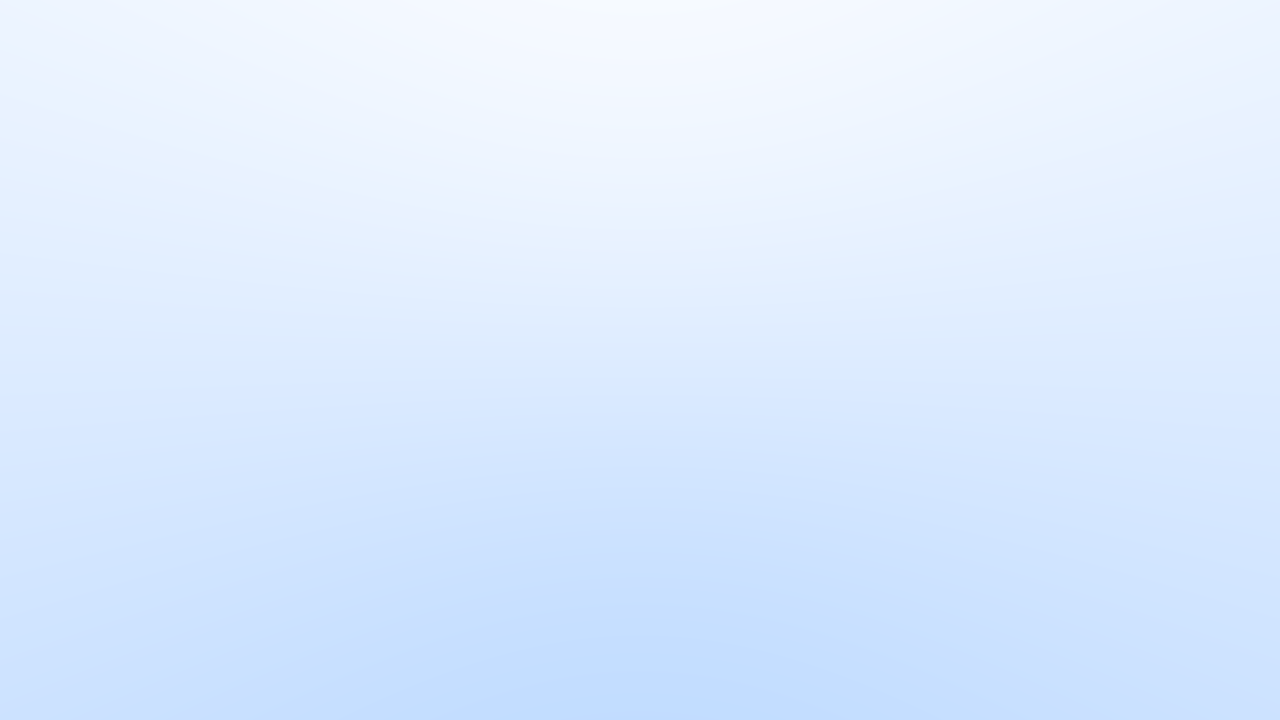
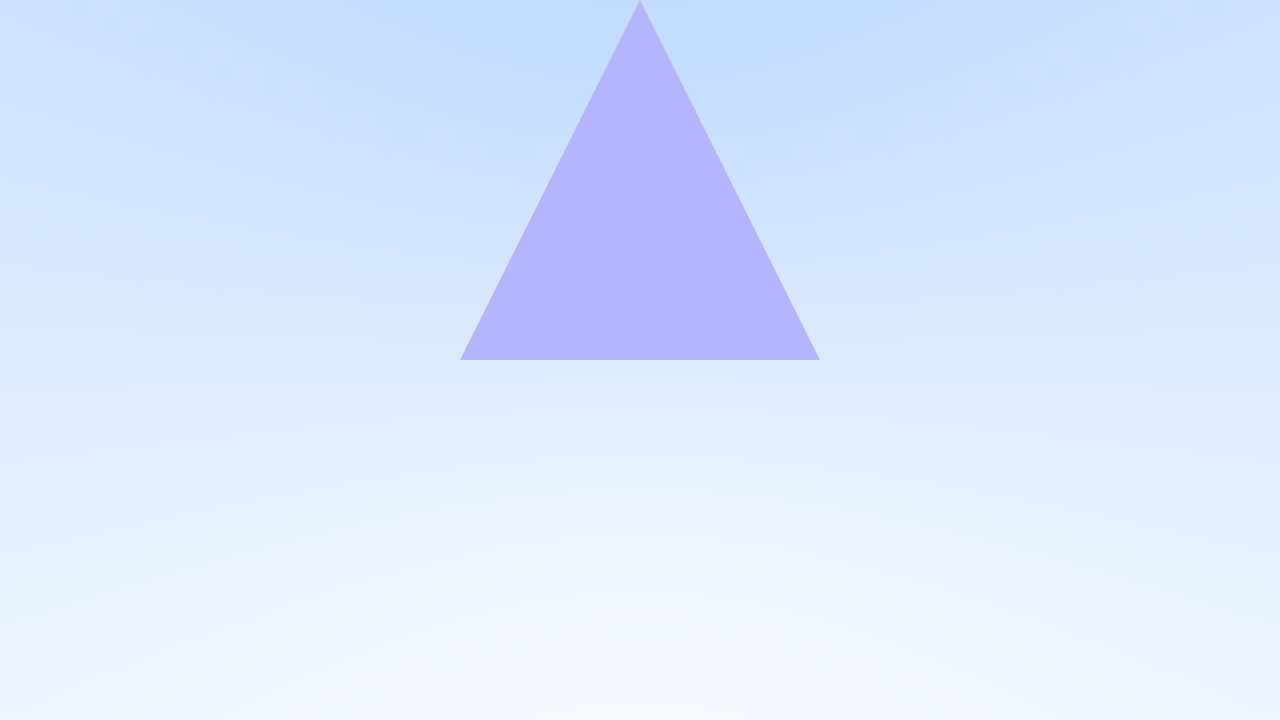
triangle render

diff --git a/cpu_raytracer/camera.cpp b/cpu_raytracer/camera.cpp
@@ -3,7 +3,7 @@
 #include "camera.hpp"
 #include <algorithm>
 #include <iostream>
-
+#include "world.hpp"
 void camera::render(const world& w)
 {
 	init();
@@ -73,15 +73,22 @@ ray camera::get_ray(int x, int y) const
 
 void camera::save_to_png(const char* name) const
 {
-	stbi_flip_vertically_on_write(true);
+	//stbi_flip_vertically_on_write(true);
 	if (!stbi_write_png(name, image_width, image_height, 3, frame_buffer.data(), image_width * 3))
 	{
 		std::cerr << "Could not save image to file!\n";
+		std::cout << "hit something" << "\n";
 	}
 }
 
-vec3 camera::pixel_color(const ray& r, const world& w) const
+vec3 camera::pixel_color(const ray& r, const world& scene) const
 {
+	hit_info hi;
+	if (scene.hit(r, 0.001, infinity, hi))
+	{
+		return 0.5 * (hi.normal + vec3{ 1,1,1 });
+
+	}
 	vec3 unit_direction = normalize(r.direction());
 	float t = 0.5f * (unit_direction[1] + 1.0f);  
 

diff --git a/cpu_raytracer/triangle.cpp b/cpu_raytracer/triangle.cpp
@@ -2,5 +2,34 @@
 
 bool triangle::hit(const ray& r, float t_min, float t_max, hit_info& record) const
 {
-    return false;
+	vec3 v0v1 = v1 - v0;
+	vec3 v0v2 = v2 - v0;
+	vec3 normal = cross(v0v1, v0v2);
+	vec3 rcv0v2 = cross(r.direction(), v0v2);
+	double det = dot(v0v1, rcv0v2);
+	if (fabs(det) < epsilon) return false;
+
+	double inv_det = 1.0 / det;
+
+	vec3 T = r.origin() - v0;
+	vec3 Q = cross(T, v0v1);
+	double t = inv_det * dot(Q, v0v2);
+	if (t<t_min || t>t_max) return false;
+	record.p = r.at(t);
+	record.t = t;
+
+	record.u = inv_det * dot(rcv0v2, T);
+
+	if (record.u < 0 || record.u > 1) return false;
+
+	record.v = inv_det * dot(Q, r.direction());
+	if (record.v < 0 || record.u + record.v> 1) return false;
+
+	record.w = 1 - record.u - record.v;
+	record.set_normal(r.direction(), normalize(normal));
+	
+	return true;
+    
+
+
 }

diff --git a/cpu_raytracer/cpu_raytracer.cpp b/cpu_raytracer/cpu_raytracer.cpp
@@ -1,18 +1,33 @@
 #include "camera.hpp"
 #include "world.hpp"
+#include "triangle.hpp"
 int main()
 {
-   
-    //camera setup
+    vec3 v0(-2, -1, -5);
+    vec3 v1(1, -1, -5);
+    vec3 v2(0, 1, -5);
+
+    // camera setup
     camera cam;
     cam.image_width = 1280;
     cam.aspect_ratio = 16.0 / 9.0;
-    //world(scene) setup
-    world w;
+    cam.look_from = { 0, 0, 0 };
+    cam.look_at = { 0, 0, -1 };
+    cam.vector_up = { 0, 1, 0 };
+    cam.vfov = 90;
 
-    //render and save
+    // world (scene)
+    world w;
+    w.add(std::make_shared<triangle>(
+        vec3{ -0.5, 0, -1.0 },//v0
+        vec3{ 0.5, 0, -1.0 },//v1
+        vec3{ 0.0, 1, -1.0 }//v2
+    ));
+
     cam.render(w);
     cam.save_to_png("Pierwszy_render.png");
+
+    return 0;
    
     return 0;
 }

diff --git a/cpu_raytracer/geometry.hpp b/cpu_raytracer/geometry.hpp
@@ -6,10 +6,12 @@ struct hit_info
 	point3 p; // point of intersection
 	float t; // parameter t at which we hit target
 	bool front_face; // what is a direction of normal. We want outward normals
+	float u, v, w; //barycentric coordinates for triangles
 	void set_normal(const vec3& ray_dir, const vec3& outward_normal)
 	{
 		front_face = dot(ray_dir, outward_normal) < 0;
 		normal = front_face ? outward_normal : -outward_normal;
+		normal = normalize(normal);
 	}
 };
 class geometry

diff --git a/cpu_raytracer/triangle.hpp b/cpu_raytracer/triangle.hpp
@@ -3,11 +3,12 @@
 class triangle : public geometry
 {
 public:
-	triangle(const vec3& v0, const vec3& v1, const vec3& v2) : v0{ v0 }, v1{ v1 }, v2{ v2 } { u = v = w = 0; }
+	triangle(const vec3& v0, const vec3& v1, const vec3& v2) : v0{ v0 }, v1{ v1 }, v2{ v2 } {}
 	bool hit(const ray& r, float t_min, float t_max, hit_info& record) const override;
 
+
 private:
-	float u, v, w; //barycentric coordinates
+	
 	vec3 v0, v1, v2;//position fo triangle
 };
 

diff --git a/cpu_raytracer/camera.hpp b/cpu_raytracer/camera.hpp
@@ -19,7 +19,7 @@ private:
 
 	void init();
 	ray get_ray(int x, int y) const;
-	vec3 pixel_color(const ray& r, const world& w) const;
+	vec3 pixel_color(const ray& r, const world& scene) const;
 	float focal_length = 1.0;
 	int image_height;
 	vec3 u, v, w;//camera basis
